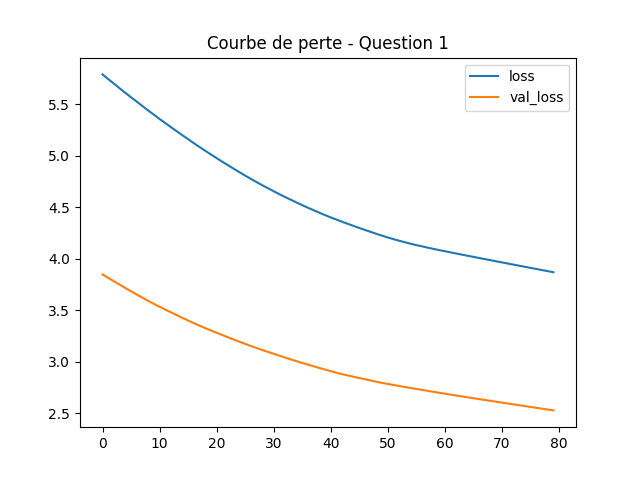
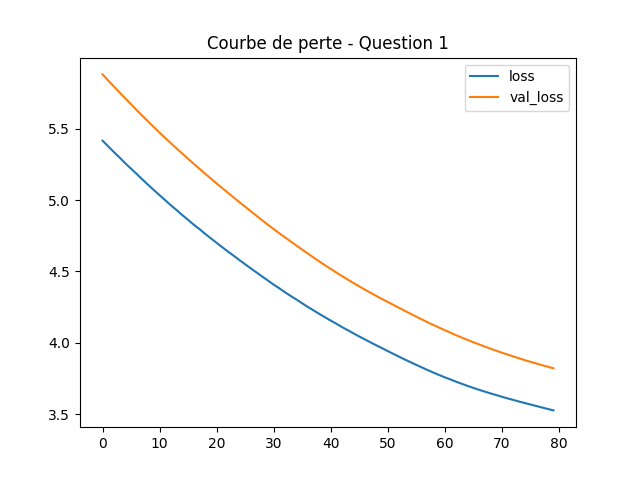
Question 2

diff --git a/main_regression_0.py b/main_regression_0.py
@@ -1,7 +1,6 @@
 #!/usr/bin/env python3
 # -*- coding: utf-8 -*-
 
-# Import des bibliothèques
 import tensorflow as tf
 from tensorflow import keras
 from tensorflow.keras import layers
@@ -10,7 +9,7 @@ import numpy as np
 import matplotlib.pyplot as plt
 import os
 
-# ---------------------- Génération des données ----------------------
+# ------------------ Génération des données ------------------
 N = 100
 X = np.random.rand(N, 1)
 y = 2 * X + 1 + 0.1 * np.random.randn(N, 1)
@@ -19,47 +18,117 @@ X_train, X_test, y_train, y_test = train_test_split(
     X, y, test_size=0.2, random_state=42
 )
 
-# ---------------------- Modèle à compléter --------------------------
-model = keras.Sequential([
-    layers.Input(shape=(1,)),          # Couche d'entrée
-    layers.Dense(2, activation="relu"),# Couche cachée : 2 neurones
-    layers.Dense(1)                    # Couche de sortie (linéaire)
-])
+# ------------------ Construction modèle ------------------
+def build_model(n_hidden_layers, n_neurons, optimizer):
+    model = keras.Sequential()
+    model.add(layers.Input(shape=(1,)))
 
-model.compile(optimizer='adam', loss='mse')  # MSE pour la régression
+    for _ in range(n_hidden_layers):
+        model.add(layers.Dense(n_neurons, activation="relu"))
 
-# ---------------------- Entraînement -------------------------------
-Nb_epochs = 80
-Batchsize = 32
+    model.add(layers.Dense(1))
+    model.compile(optimizer=optimizer, loss="mse")
+    return model
 
-history = model.fit(
-    X_train, y_train,
-    epochs=Nb_epochs,
-    batch_size=Batchsize,
-    validation_data=(X_test, y_test)
-)
+# ------------------ EXACTEMENT 5 CONFIGURATIONS ------------------
+configurations = [
+    (1, 2, "adam"),
+    (2, 4, "sgd"),
+    (3, 8, keras.optimizers.Adam(learning_rate=0.01)),
+    (1, 8, "adam"),
+    (2, 2, keras.optimizers.Adam(learning_rate=0.001)),
+]
 
-# ---------------------- Évaluation -------------------------------
-test_loss = model.evaluate(X_test, y_test)
-print(f"Test Loss: {test_loss:.4f}")
-
-# ---------------------- Création d’un dossier pour Question 1 ----------------------
-output_dir = "question1"
+# ------------------ Dossier principal ------------------
+output_dir = "question2"
 os.makedirs(output_dir, exist_ok=True)
 
-# Sauvegarde du modèle
-model.save(os.path.join(output_dir, "modele_question1.keras"))
+log_file = open(os.path.join(output_dir, "resultats.txt"), "w")
+config_id = 1
 
-# Sauvegarde de l’historique d'entraînement
-np.save(os.path.join(output_dir, "history.npy"), history.history)
+# ------------------ Tests ------------------
+for hl, nn, opt in configurations:
 
-# Sauvegarde du graphique
-plt.figure()
-plt.plot(history.history['loss'], label="loss")
-plt.plot(history.history['val_loss'], label="val_loss")
-plt.legend()
-plt.title("Courbe de perte - Question 1")
-plt.savefig(os.path.join(output_dir, "courbe_perte.png"))
-plt.close()
+    # Nom propre optimiseur
+    if isinstance(opt, str):
+        opt_name = opt
+    else:
+        opt_name = f"adam_lr_{float(opt.learning_rate)}"
 
-print("Tous les résultats de la question 1 ont été enregistrés dans : ./question1")
+    print(f"[CONFIG {config_id}] HL={hl}, NN={nn}, OPT={opt_name}")
+
+    # Dossier de la configuration
+    config_dir = os.path.join(output_dir, f"config_{config_id}")
+    os.makedirs(config_dir, exist_ok=True)
+
+    # Construction du modèle
+    model = build_model(hl, nn, opt)
+
+    # Entraînement
+    history = model.fit(
+        X_train, y_train,
+        epochs=80,
+        batch_size=32,
+        validation_data=(X_test, y_test),
+        verbose=0
+    )
+
+    # Évaluation
+    test_loss = model.evaluate(X_test, y_test, verbose=0)
+
+    # Prédictions
+    y_pred = model.predict(X_test)
+
+    # ---------- courbe perte ----------
+    plt.figure()
+    plt.plot(history.history["loss"], label="loss")
+    plt.plot(history.history["val_loss"], label="val_loss")
+    plt.legend()
+    plt.title(f"Courbe de perte – Config {config_id}")
+    plt.savefig(os.path.join(config_dir, "courbe_perte.png"))
+    plt.close()
+
+    # ---------- résumé PNG ----------
+    plt.figure(figsize=(8, 6))
+    plt.title(f"Résumé – Configuration {config_id}", fontsize=16)
+
+    resume_txt = (
+        f"Couches cachées   : {hl}\n"
+        f"Neurones/couche   : {nn}\n"
+        f"Optimiseur        : {opt_name}\n"
+        f"Fonction coût     : MSE\n"
+        f"Test Loss final   : {test_loss:.4f}\n"
+    )
+
+    plt.text(0.01, 0.5, resume_txt, fontsize=12)
+    plt.axis("off")
+    plt.savefig(os.path.join(config_dir, "resume.png"))
+    plt.close()
+
+    # ---------- graphique prédiction / test ----------
+    plt.figure(figsize=(8, 5))
+    plt.scatter(X_test, y_test, color='blue', label='Vraies valeurs (Test)')
+    plt.scatter(X_test, y_pred, color='red', marker='x', label='Prédictions du modèle')
+    
+    # Ligne de régression (triée pour être propre)
+    sorted_idx = np.argsort(X_test[:, 0])
+    plt.plot(X_test[sorted_idx], y_pred[sorted_idx], color='red', linestyle='-', alpha=0.6)
+
+    plt.title(f"Régression RN – Config {config_id} (Test Loss: {test_loss:.4f})")
+    plt.xlabel("X_test")
+    plt.ylabel("y")
+    plt.legend()
+    plt.grid(True)
+    plt.savefig(os.path.join(config_dir, "regression_results.png"))
+    plt.close()
+
+    print(f"Graphique de régression enregistré : config_{config_id}/regression_results.png")
+
+    # ---------- log ----------
+    log_file.write(f"CONFIG {config_id}\n")
+    log_file.write(resume_txt + "\n\n")
+
+    config_id += 1
+
+log_file.close()
+print("5 configurations testées. Tous les PNG générés dans ./question2/")
